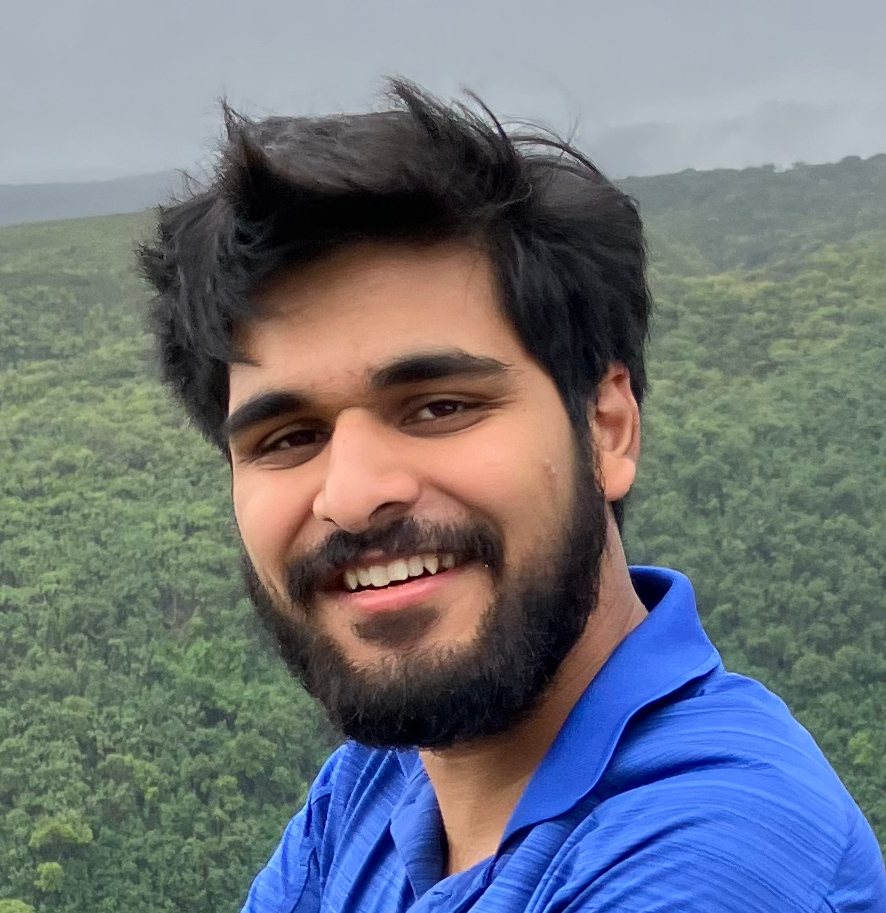
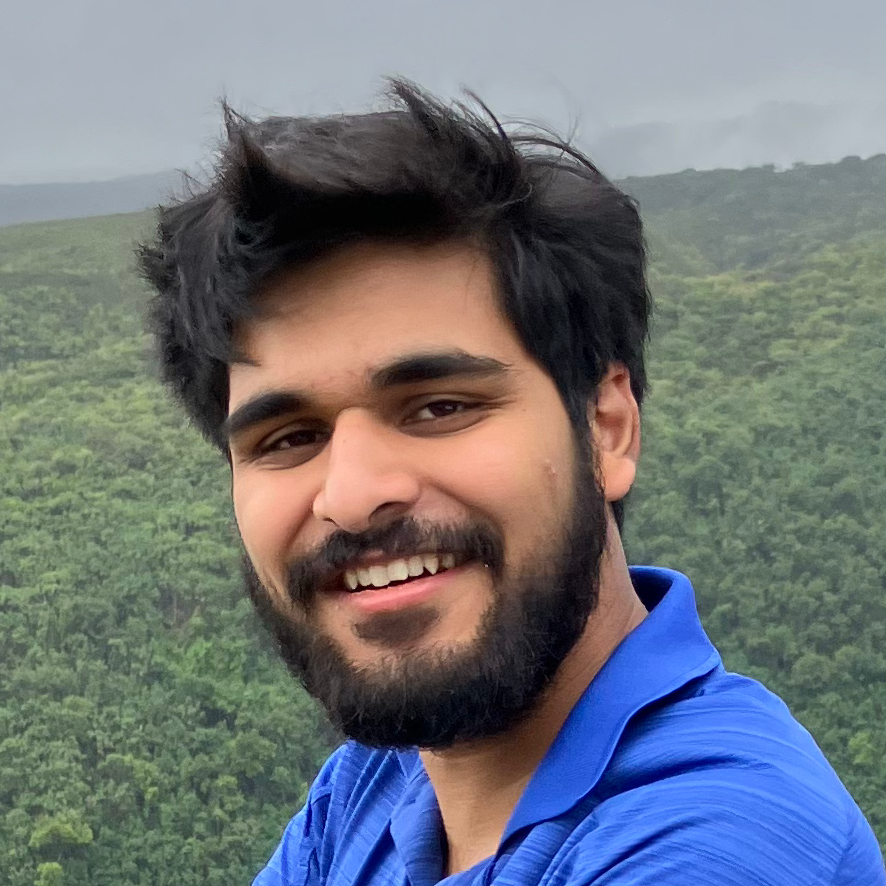
Add portrait of myself, but don't display yet

diff --git a/_sass/layout.scss b/_sass/layout.scss
@@ -41,3 +41,7 @@ header {
         }
     }
 }
+
+#portrait {
+    display: none;
+}

diff --git a/_layouts/default.html b/_layouts/default.html
@@ -21,6 +21,9 @@
         </ul>
       </nav>
     </header>
+    <aside id="portrait">
+      <img src="/me.jpg" alt="A picture of me">
+    </aside>
     <main>
       {{ content }}
     </main>